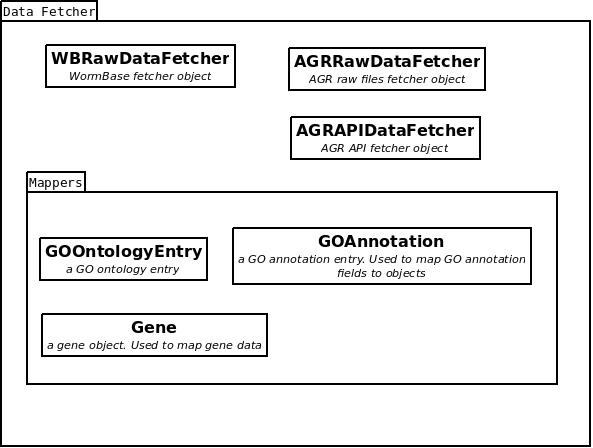
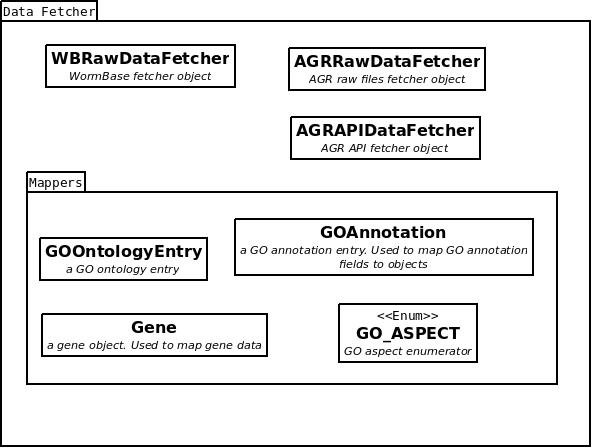
cache
- added option for caching raw files. File are first downloaded from source if cache option is activated but cache is empty
- updated documentation

Changed region(s): [[0.3642, 0.4688, 0.9106, 0.8125]]

diff --git a/data_fetcher.py b/data_fetcher.py
@@ -1,32 +1,60 @@
 import gzip
 import urllib
 from collections import namedtuple, defaultdict
+from enum import Enum
+
+import os
+from urllib.parse import urlparse
+
 from namedlist import namedlist
 from typing import List
-from descriptions_rules import GO_ASPECT
-from mappers import Gene, GOAnnotation, GOOntologyEntry
+
+Gene = namedtuple('Gene', ['id', 'name'])
+GOAnnotation = namedtuple('GOAnnotation', ['go_id', 'qualifier', 'paper_reference', 'evidence_code', 'aspect',
+                                           'annotation_ext', 'go_name', 'is_obsolete'])
+GOOntologyEntry = namedlist('GOOntologyEntry', 'name is_obsolete')
+
+
+class GO_ASPECT(Enum):
+    MOLECULAR_FUNCTION = 0
+    BIOLOGICAL_PROCESS = 1
+    CELLULAR_COMPONENT = 2
 
 
 class WBRawDataFetcher:
     """data fetcher for WormBase raw files for a single species"""
-    def __init__(self, raw_files_source: str, release_version: str, species: str, project_id: str):
+    def __init__(self, raw_files_source: str, cache_location: str, release_version: str, species: str, project_id: str,
+                 use_cache: bool, ):
         """create a new data fetcher
 
         :param raw_files_source: base url where to fetch the raw files
         :type raw_files_source: str
+        :param cache_location: path to cache directory
+        :type cache_location: str
         :param release_version: WormBase release version for the input files
         :type release_version: str
         :param species: WormBase species to fetch
         :type species: str
         :param project_id: project id associated with the species
         :type project_id: str
+        :param use_cache: whether to use cached files. If cache is empty, files are downloading from source and stored
+            in cache
+        :type use_cache: bool
         """
         self.raw_files_source = raw_files_source
+        self.cache_location = cache_location
         self.release_version = release_version
         self.species = species
         self.project_id = project_id
         self.go_data = defaultdict(set)
         self.go_ontology = {}
+        self.use_cache = use_cache
+
+    def _fill_cache_if_empty_and_activated(self, cache_url, file_source_url):
+        cache_url_parsed = urlparse(cache_url)
+        if self.use_cache and not os.path.isfile(cache_url_parsed.path):
+            os.makedirs(os.path.dirname(cache_url_parsed.path), exist_ok=True)
+            urllib.request.urlretrieve(file_source_url, cache_url_parsed.path)
 
     def get_gene_data(self, include_dead_genes: bool = False, include_pseudo_genes: bool = False) -> Gene:
         """get all gene data from the fetcher, returning one gene per call
@@ -38,9 +66,14 @@ class WBRawDataFetcher:
         :return: data for one gene per each call, including gene_id and gene_name
         :rtype: Gene
         """
-        address = self.raw_files_source + '/' + self.release_version + '/species/' + self.species + '/' + \
-                  self.project_id + '/annotation/' + self.species + '.' + self.project_id + '.' + self.release_version \
-                  + '.geneIDs.txt.gz'
+        cache_url = os.path.join(self.cache_location, self.release_version, "species", self.species, self.project_id,
+                                 "annotation", self.species + '.' + self.project_id + '.' + self.release_version +
+                                 ".geneIDs.txt.gz")
+        source_address = self.raw_files_source + '/' + self.release_version + '/species/' + self.species + '/' + \
+                         self.project_id + '/annotation/' + self.species + '.' + self.project_id + '.' + \
+                         self.release_version + '.geneIDs.txt.gz'
+        self._fill_cache_if_empty_and_activated(cache_url=cache_url, file_source_url=source_address)
+        address = cache_url if self.use_cache else source_address
         # TODO if include_pseudo_genes == False exclude it - get pseudo gene data from another file
         with urllib.request.urlopen(address) as url:
             gzip_file = gzip.GzipFile(fileobj=url)
@@ -50,14 +83,19 @@ class WBRawDataFetcher:
                     name = fields[2] if fields[2] != '' else fields[3]
                     yield Gene(fields[1], name)
 
-    def read_go_data(self) -> None:
+    def load_go_data(self) -> None:
         """read go data and gene ontology. After calling this function, go annotations containing mapped go names can
         be retrieved by using the :meth:`data_fetcher.WBRawDataFetcher.get_go_annotations` function
         """
-        self._read_go_ontology()
-        address = self.raw_files_source + '/' + self.release_version + '/species/' + self.species + '/' + \
-                  self.project_id + '/annotation/' + self.species + '.' + self.project_id + '.' + self.release_version \
-                  + '.go_annotations.gaf.gz'
+        self._load_go_ontology()
+        cache_url = os.path.join(self.cache_location, self.release_version, "species", self.species, self.project_id,
+                                 "annotation", self.species + '.' + self.project_id + '.' + self.release_version +
+                                 ".go_annotations.gaf.gz")
+        source_address = self.raw_files_source + '/' + self.release_version + '/species/' + self.species + '/' + \
+                         self.project_id + '/annotation/' + self.species + '.' + self.project_id + '.' + \
+                         self.release_version + '.go_annotations.gaf.gz'
+        self._fill_cache_if_empty_and_activated(cache_url=cache_url, file_source_url=source_address)
+        address = cache_url if self.use_cache else source_address
         with urllib.request.urlopen(address) as url:
             gzip_file = gzip.GzipFile(fileobj=url)
             for line in gzip_file:
@@ -78,10 +116,14 @@ class WBRawDataFetcher:
                                                                 fields[15], self.go_ontology[fields[4]].name,
                                                                 is_obsolete))
 
-    def _read_go_ontology(self):
+    def _load_go_ontology(self):
         """read go ontology data"""
-        address = self.raw_files_source + '/' + self.release_version + '/ONTOLOGY/gene_ontology.' + \
-                  self.release_version + '.obo'
+        cache_url = os.path.join(self.cache_location, self.release_version, "ONTOLOGY", "gene_ontology." +
+                                       self.release_version + ".obo")
+        source_address = self.raw_files_source + '/' + self.release_version + '/ONTOLOGY/gene_ontology.' + \
+                         self.release_version + '.obo'
+        self._fill_cache_if_empty_and_activated(cache_url=cache_url, file_source_url=source_address)
+        address = cache_url if self.use_cache else source_address
         with urllib.request.urlopen(address) as url:
             go_id = None
             go_entry = GOOntologyEntry(None, None)

diff --git a/descriptions_rules.py b/descriptions_rules.py
@@ -1,52 +1,83 @@
 from collections import namedtuple, defaultdict
+from enum import Enum
 from typing import List
-from mappers import GO_ASPECT, EVIDENCE_GROUP, GOAnnotation, EVIDENCE_GROUPS_MAP
-
-GO_HEADER_SENTENCES = {(GO_ASPECT.MOLECULAR_FUNCTION, EVIDENCE_GROUP.EXPERIMENTS): "exhibits",
-                       (GO_ASPECT.BIOLOGICAL_PROCESS, EVIDENCE_GROUP.EXPERIMENTS): "is involved in",
-                       (GO_ASPECT.CELLULAR_COMPONENT, EVIDENCE_GROUP.EXPERIMENTS): "localizes to"}
-
-Sentence = namedtuple('Sentence', ['text', 'go_aspect', 'evidence_code'])
+from data_fetcher import GO_ASPECT, GOAnnotation
 
 
-class Sentences(object):
+class EVIDENCE_GROUP(Enum):
+    EXPERIMENTS = 1
+
+
+EVIDENCE_GROUPS_MAP = {
+    "EXP": EVIDENCE_GROUP.EXPERIMENTS, "IDA": EVIDENCE_GROUP.EXPERIMENTS,
+    "IPI": EVIDENCE_GROUP.EXPERIMENTS, "IMP": EVIDENCE_GROUP.EXPERIMENTS,
+    "IGI": EVIDENCE_GROUP.EXPERIMENTS, "IEP": EVIDENCE_GROUP.EXPERIMENTS,
+    "ISS": EVIDENCE_GROUP.EXPERIMENTS, "ISO": EVIDENCE_GROUP.EXPERIMENTS,
+    "ISA": EVIDENCE_GROUP.EXPERIMENTS, "ISM": EVIDENCE_GROUP.EXPERIMENTS,
+    "IGC": EVIDENCE_GROUP.EXPERIMENTS, "IBA": EVIDENCE_GROUP.EXPERIMENTS,
+    "IBD": EVIDENCE_GROUP.EXPERIMENTS, "IKR": EVIDENCE_GROUP.EXPERIMENTS,
+    "IRD": EVIDENCE_GROUP.EXPERIMENTS, "RCA": EVIDENCE_GROUP.EXPERIMENTS,
+    "IC": EVIDENCE_GROUP.EXPERIMENTS
+}
+
+GO_HEADER_SENTENCES_MAP = {(GO_ASPECT.MOLECULAR_FUNCTION, EVIDENCE_GROUP.EXPERIMENTS): "exhibits",
+                           (GO_ASPECT.BIOLOGICAL_PROCESS, EVIDENCE_GROUP.EXPERIMENTS): "is involved in",
+                           (GO_ASPECT.CELLULAR_COMPONENT, EVIDENCE_GROUP.EXPERIMENTS): "localizes to"}
+
+GOSentence = namedtuple('GOSentence', ['text', 'go_aspect', 'evidence_code'])
+
+
+class GOSentencesCollection(object):
+    """a group of GO sentences indexed by aspect"""
     def __init__(self):
         self.sentences_map = defaultdict(list)
 
-    def add_sentence(self, sentence: Sentence):
+    def add_sentence(self, sentence: GOSentence) -> None:
+        """add a sentence to the collection
+
+        :param sentence: the sentence to add
+        :type sentence: Sentence
+        """
         self.sentences_map[sentence.go_aspect].append(sentence)
 
-    def get_sentences(self, go_aspect: GO_ASPECT):
+    def get_sentences(self, go_aspect: GO_ASPECT) -> List[GOSentence]:
+        """get all sentences containing the specified aspect
+
+        :param go_aspect: a GO aspect
+        :type go_aspect: GO_ASPECT
+        :return: the list of sentences containing the specified GO aspect
+        :rtype: List[Sentence]
+        """
         return self.sentences_map[go_aspect]
 
 
-def generate_go_sentence(go_annotations: List[GOAnnotation]) -> Sentences:
+def generate_go_sentence(go_annotations: List[GOAnnotation]) -> GOSentencesCollection:
     """generate GO sentences from a list of GO annotations
 
     :param go_annotations: the list of GO annotations for a given gene
     :type go_annotations: List[GOAnnotation]
-    :return: the list of sentences
-    :rtype: List[Sentence]
+    :return: a collection of GO sentences
+    :rtype: GOSentencesCollection
     """
     if len(go_annotations) > 0:
         go_terms_groups = defaultdict(list)
         for annotation in go_annotations:
             go_terms_groups[(annotation.aspect, annotation.evidence_code)].append(annotation.go_name)
-        sentences = Sentences()
+        sentences = GOSentencesCollection()
         for ((go_aspect, evidence_code), go_terms) in go_terms_groups.items():
-            sentences.add_sentence(_get_single_sentence(go_term_names=go_terms, go_aspect=go_aspect,
-                                                        evidence_code=evidence_code))
+            sentences.add_sentence(_get_single_go_sentence(go_term_names=go_terms, go_aspect=go_aspect,
+                                                           evidence_code=evidence_code))
         return sentences
 
 
-def _get_single_sentence(go_term_names: List[str], go_aspect: GO_ASPECT, evidence_code: str):
+def _get_single_go_sentence(go_term_names: List[str], go_aspect: GO_ASPECT, evidence_code: str):
     if len(go_term_names) > 0:
         if len(go_term_names) > 1:
             ec = EVIDENCE_GROUPS_MAP[evidence_code]
-            return Sentence(text=GO_HEADER_SENTENCES[(go_aspect, ec)] + " " +
-                            ", ".join(go_term_names[0:-1]) + ", and " + go_term_names[len(go_term_names) - 1],
-                            go_aspect=go_aspect, evidence_code=evidence_code)
+            return GOSentence(text=GO_HEADER_SENTENCES_MAP[(go_aspect, ec)] + " " + ", ".join(go_term_names[0:-1]) +
+                                   ", and " + go_term_names[len(go_term_names) - 1],
+                              go_aspect=go_aspect, evidence_code=evidence_code)
         else:
             ec = EVIDENCE_GROUPS_MAP[evidence_code]
-            return Sentence(text=GO_HEADER_SENTENCES[(go_aspect, ec)] + " " +
-                            go_term_names[0], go_aspect=go_aspect, evidence_code=evidence_code)
+            return GOSentence(text=GO_HEADER_SENTENCES_MAP[(go_aspect, ec)] + " " +
+                                   go_term_names[0], go_aspect=go_aspect, evidence_code=evidence_code)

diff --git a/generate_descriptions.py b/generate_descriptions.py
@@ -8,6 +8,9 @@ def main():
     parser = argparse.ArgumentParser(description="Generate gene descriptions for wormbase")
     parser.add_argument("-c", "--config-file", metavar="config_file", dest="config_file", type=str,
                         default="genedesc.ini", help="configuration file")
+    parser.add_argument("-C", "--use-cache", dest="use_cache", action="store_true",
+                        help="Use cached source files from cache_location specified in config file. Download them from "
+                             "raw_file_source (configured in config file) if not yet cached")
     parser.add_argument("-v", "--output-version", metavar="version_number", dest="version_number", type=str,
                         help="release version number")
     parser.add_argument("-w", "--wormbase-version", metavar="wormbase_number", dest="wormbase_number", type=str,
@@ -19,12 +22,13 @@ def main():
     config.read(args.config_file)
 
     raw_files_source = config.get("data_fetcher", "raw_files_source")
+    cache_location = config.get("data_fetcher", "cache_location")
     species = config.get("generic", "species").split(",")
     project_ids = config.get("generic", "project_ids").split(",")
 
     df = WBRawDataFetcher(raw_files_source=raw_files_source, release_version=args.wormbase_number, species=species[3],
-                          project_id=project_ids[3])
-    df.read_go_data()
+                          project_id=project_ids[3], cache_location=cache_location, use_cache=True)
+    df.load_go_data()
     for gene in df.get_gene_data():
         print(gene.id, gene.name)
         sentences = generate_go_sentence(df.get_go_annotations(gene.id))
@@ -43,6 +47,7 @@ def main():
             print(". ".join(joined_sent) + ".")
         else:
             print("No description available")
+        print()
 
 
 if __name__ == '__main__':

diff --git a/docs/conf.py b/docs/conf.py
@@ -165,5 +165,6 @@ texinfo_documents = [
      'Miscellaneous'),
 ]
 
+autoclass_content = 'both'
 
 

diff --git a/docs/index.rst b/docs/index.rst
@@ -6,11 +6,12 @@
 Welcome to genedescriptions's documentation!
 ===============================================
 
-This program generates gene descriptions for `WormBase <http://wormbase.org>`_.
+This program generates gene descriptions for `AGR <http://alliancegenome.org>`_ and other Model Organism Databases
+(e.g., `WormBase <http://wormbase.org>`_).
 
-The main program, `generate_descriptions.py <generate_descriptions.html>`_, combines the functions of three sub-modules to
-get the raw data from WormBase and generate the gene descriptions. The following diagram shows the work flow of the
-project.
+The main program of the project, `generate_descriptions.py <generate_descriptions.html>`_, combines the functions of
+three sub-modules to get the raw data from WormBase and generate the gene descriptions. The following diagram shows the
+high level flow of the project.
 
 .. image:: images/index/general_WF.jpg
 

diff --git a/docs/descriptions_rules.rst b/docs/descriptions_rules.rst
@@ -1,6 +1,8 @@
 descriptions\_rules module
 ==========================
 
+.. image:: images/descriptions_rules/descriptions_rules_class.jpg
+
 .. automodule:: descriptions_rules
     :members:
     :undoc-members:
